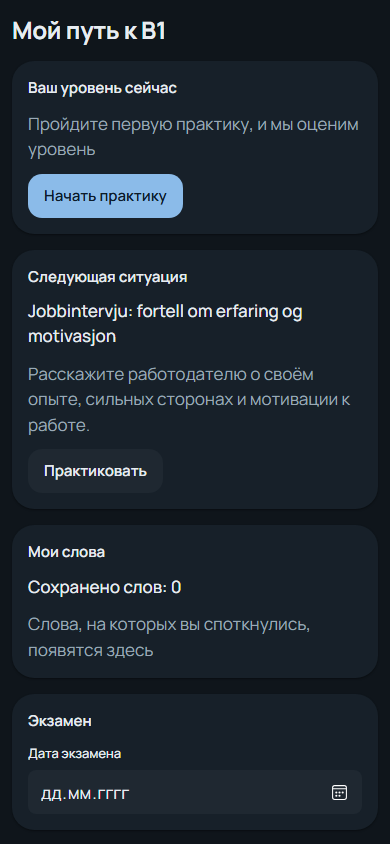
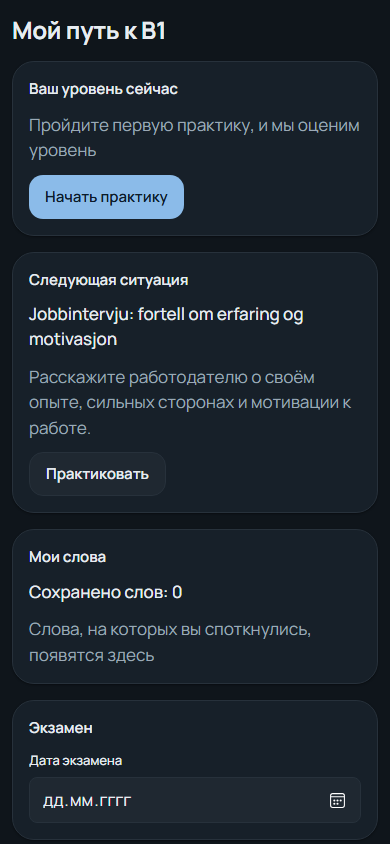
fix(path): address review round 1 (use --ink/--line tokens and add path-390x844-exam.png)

diff --git a/src/components/path/path.css b/src/components/path/path.css
@@ -1,7 +1,7 @@
 .path-page {
   min-height: 100vh;
   background: var(--bg);
-  color: var(--text);
+  color: var(--ink);
   padding: var(--space-8) var(--space-4);
 }
 
@@ -21,12 +21,12 @@
 
 .path-title {
   margin: 0;
-  color: var(--text);
+  color: var(--ink);
 }
 
 .path-card {
   background: var(--surface);
-  border: 1px solid var(--border);
+  border: 1px solid var(--line);
   border-radius: var(--radius-lg);
   box-shadow: var(--shadow-1);
   padding: var(--space-6);
@@ -37,7 +37,7 @@
 
 .path-card-title {
   margin: 0;
-  color: var(--text);
+  color: var(--ink);
 }
 
 .path-card-text {
@@ -47,12 +47,12 @@
 
 .path-situation-title {
   margin: 0;
-  color: var(--text);
+  color: var(--ink);
 }
 
 .path-words-count {
   margin: 0;
-  color: var(--text);
+  color: var(--ink);
 }
 
 .path-actions {
@@ -86,9 +86,9 @@
   min-height: 2.75rem;
   padding: var(--space-2) var(--space-4);
   border-radius: var(--radius-md);
-  border: 1px solid var(--border);
+  border: 1px solid var(--line);
   background: var(--surface-2);
-  color: var(--text);
+  color: var(--ink);
   text-decoration: none;
   font-weight: 600;
 }
@@ -103,9 +103,9 @@
   min-height: 2.75rem;
   padding: var(--space-2) var(--space-3);
   border-radius: var(--radius-sm);
-  border: 1px solid var(--border);
+  border: 1px solid var(--line);
   background: var(--surface-2);
-  color: var(--text);
+  color: var(--ink);
   font-family: var(--font-sans);
 }
 
@@ -119,7 +119,7 @@
 
 .path-exam-countdown {
   margin: 0;
-  color: var(--text);
+  color: var(--ink);
   font-weight: 600;
 }
 
